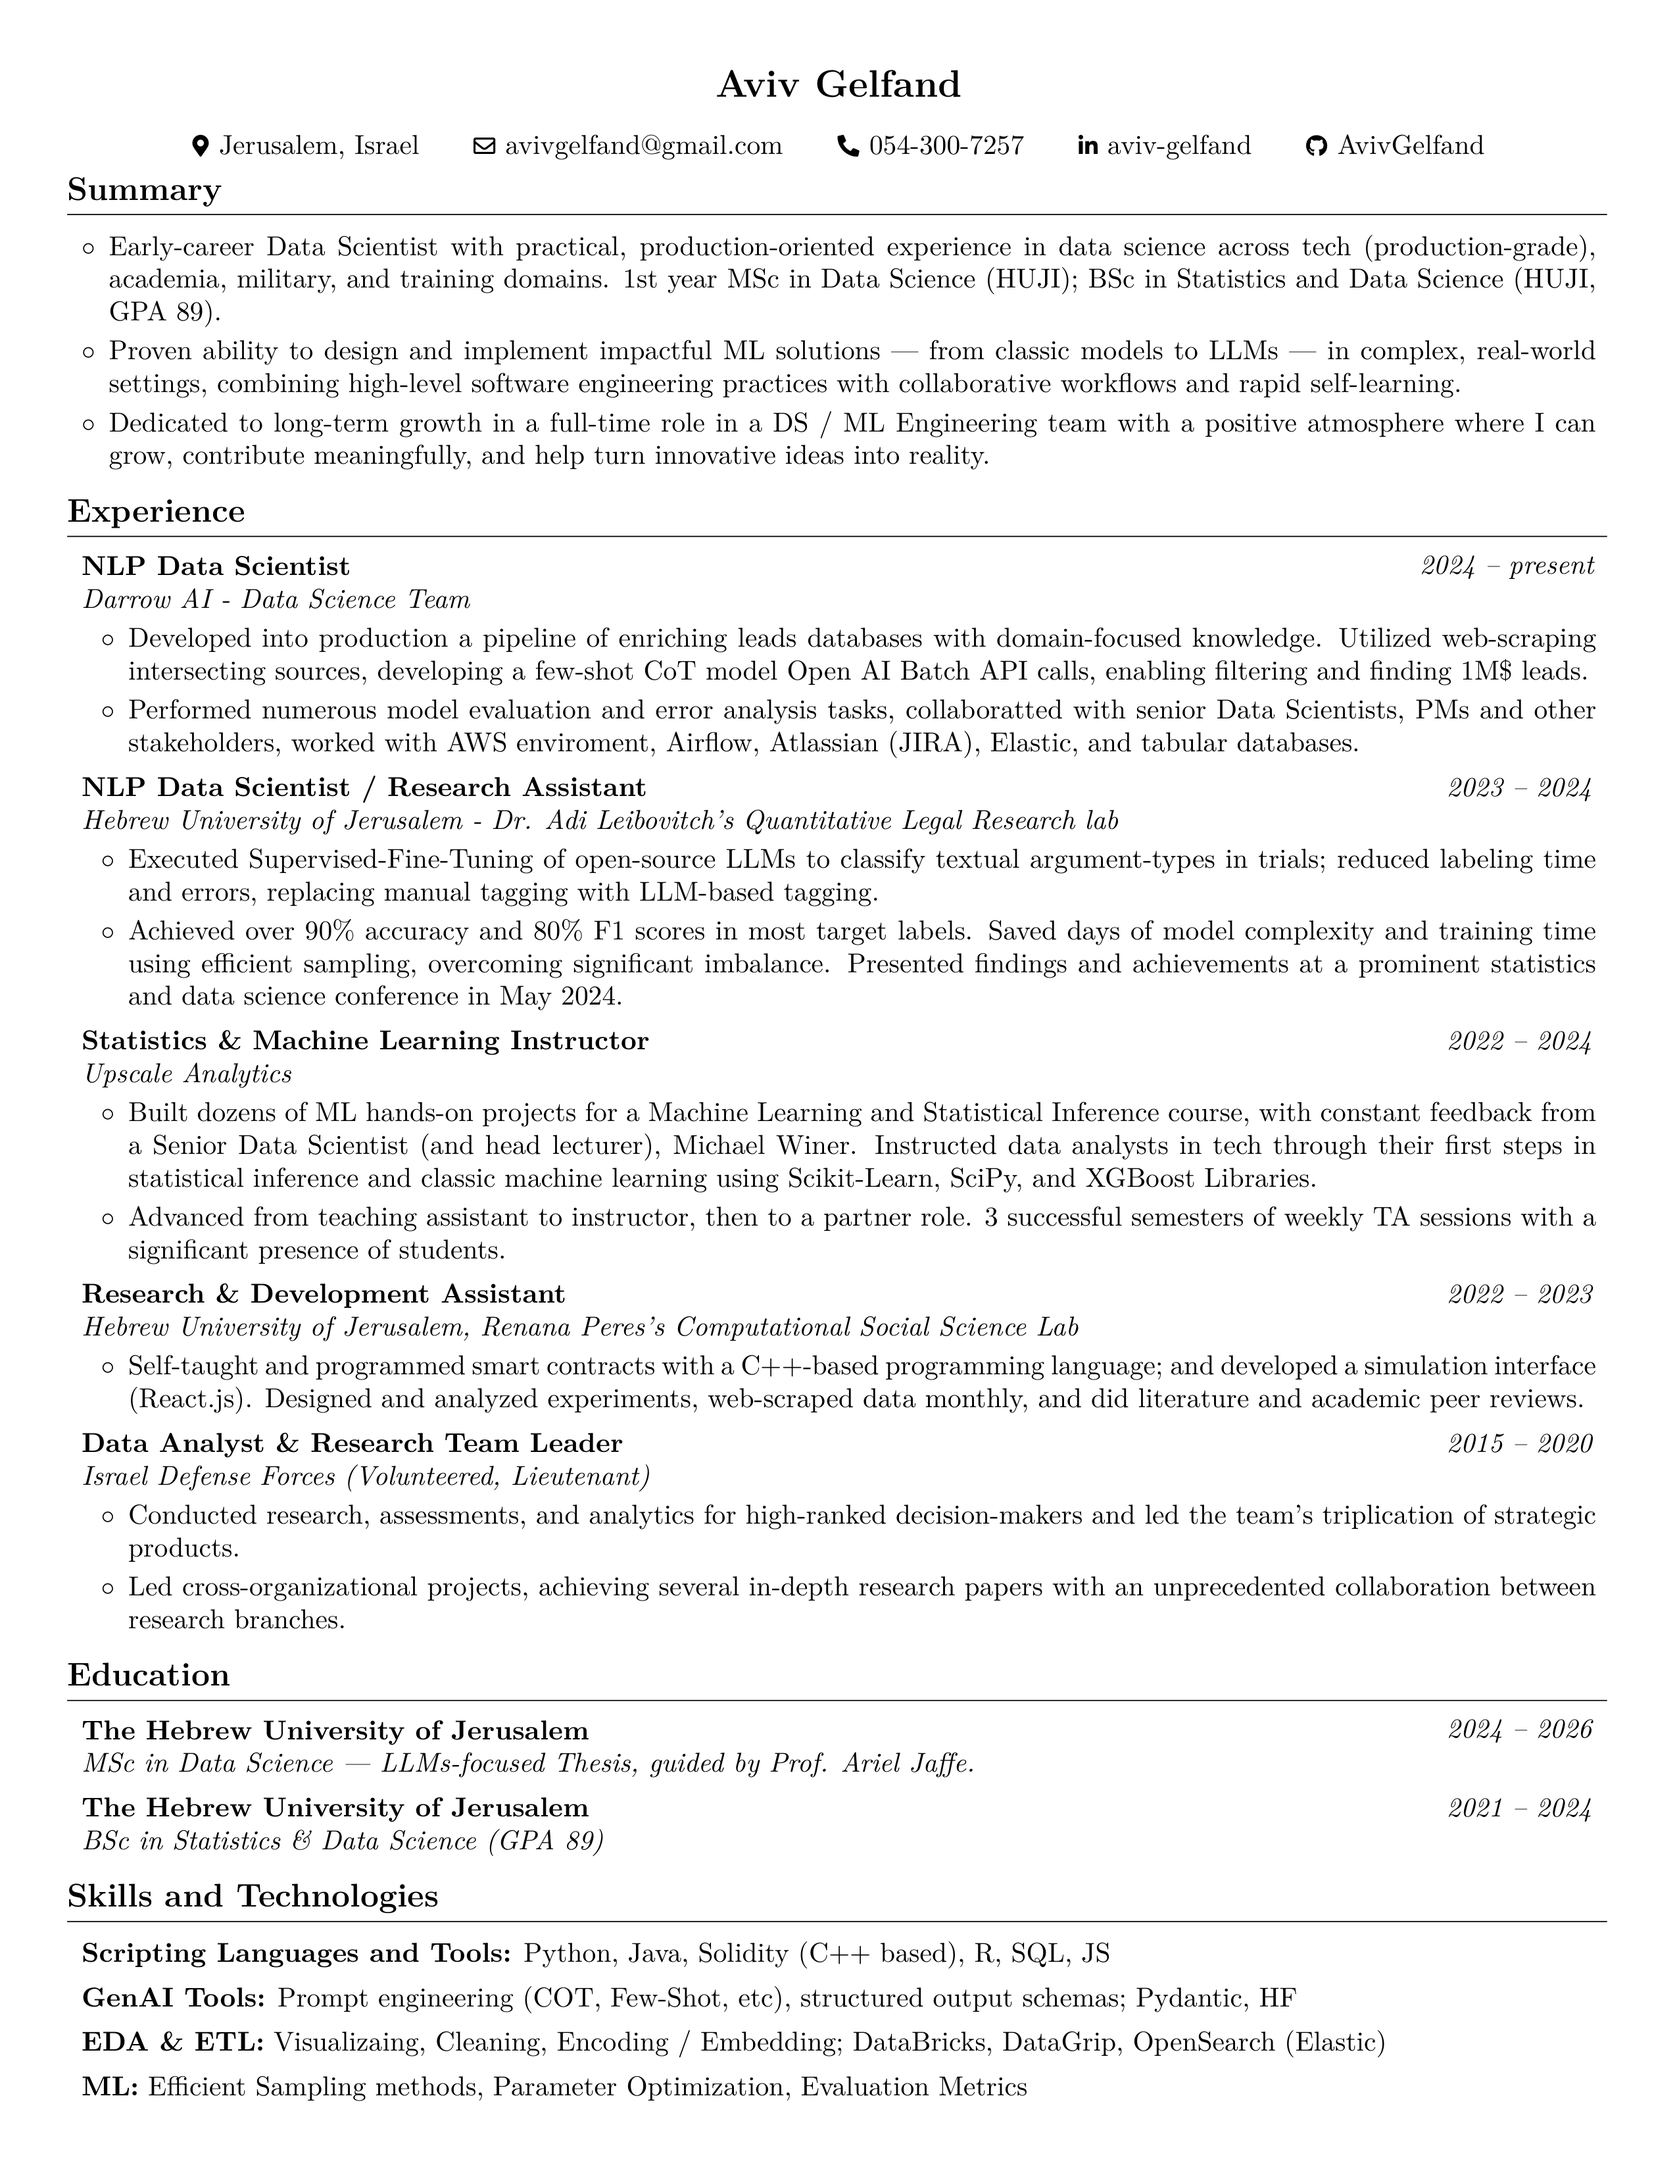
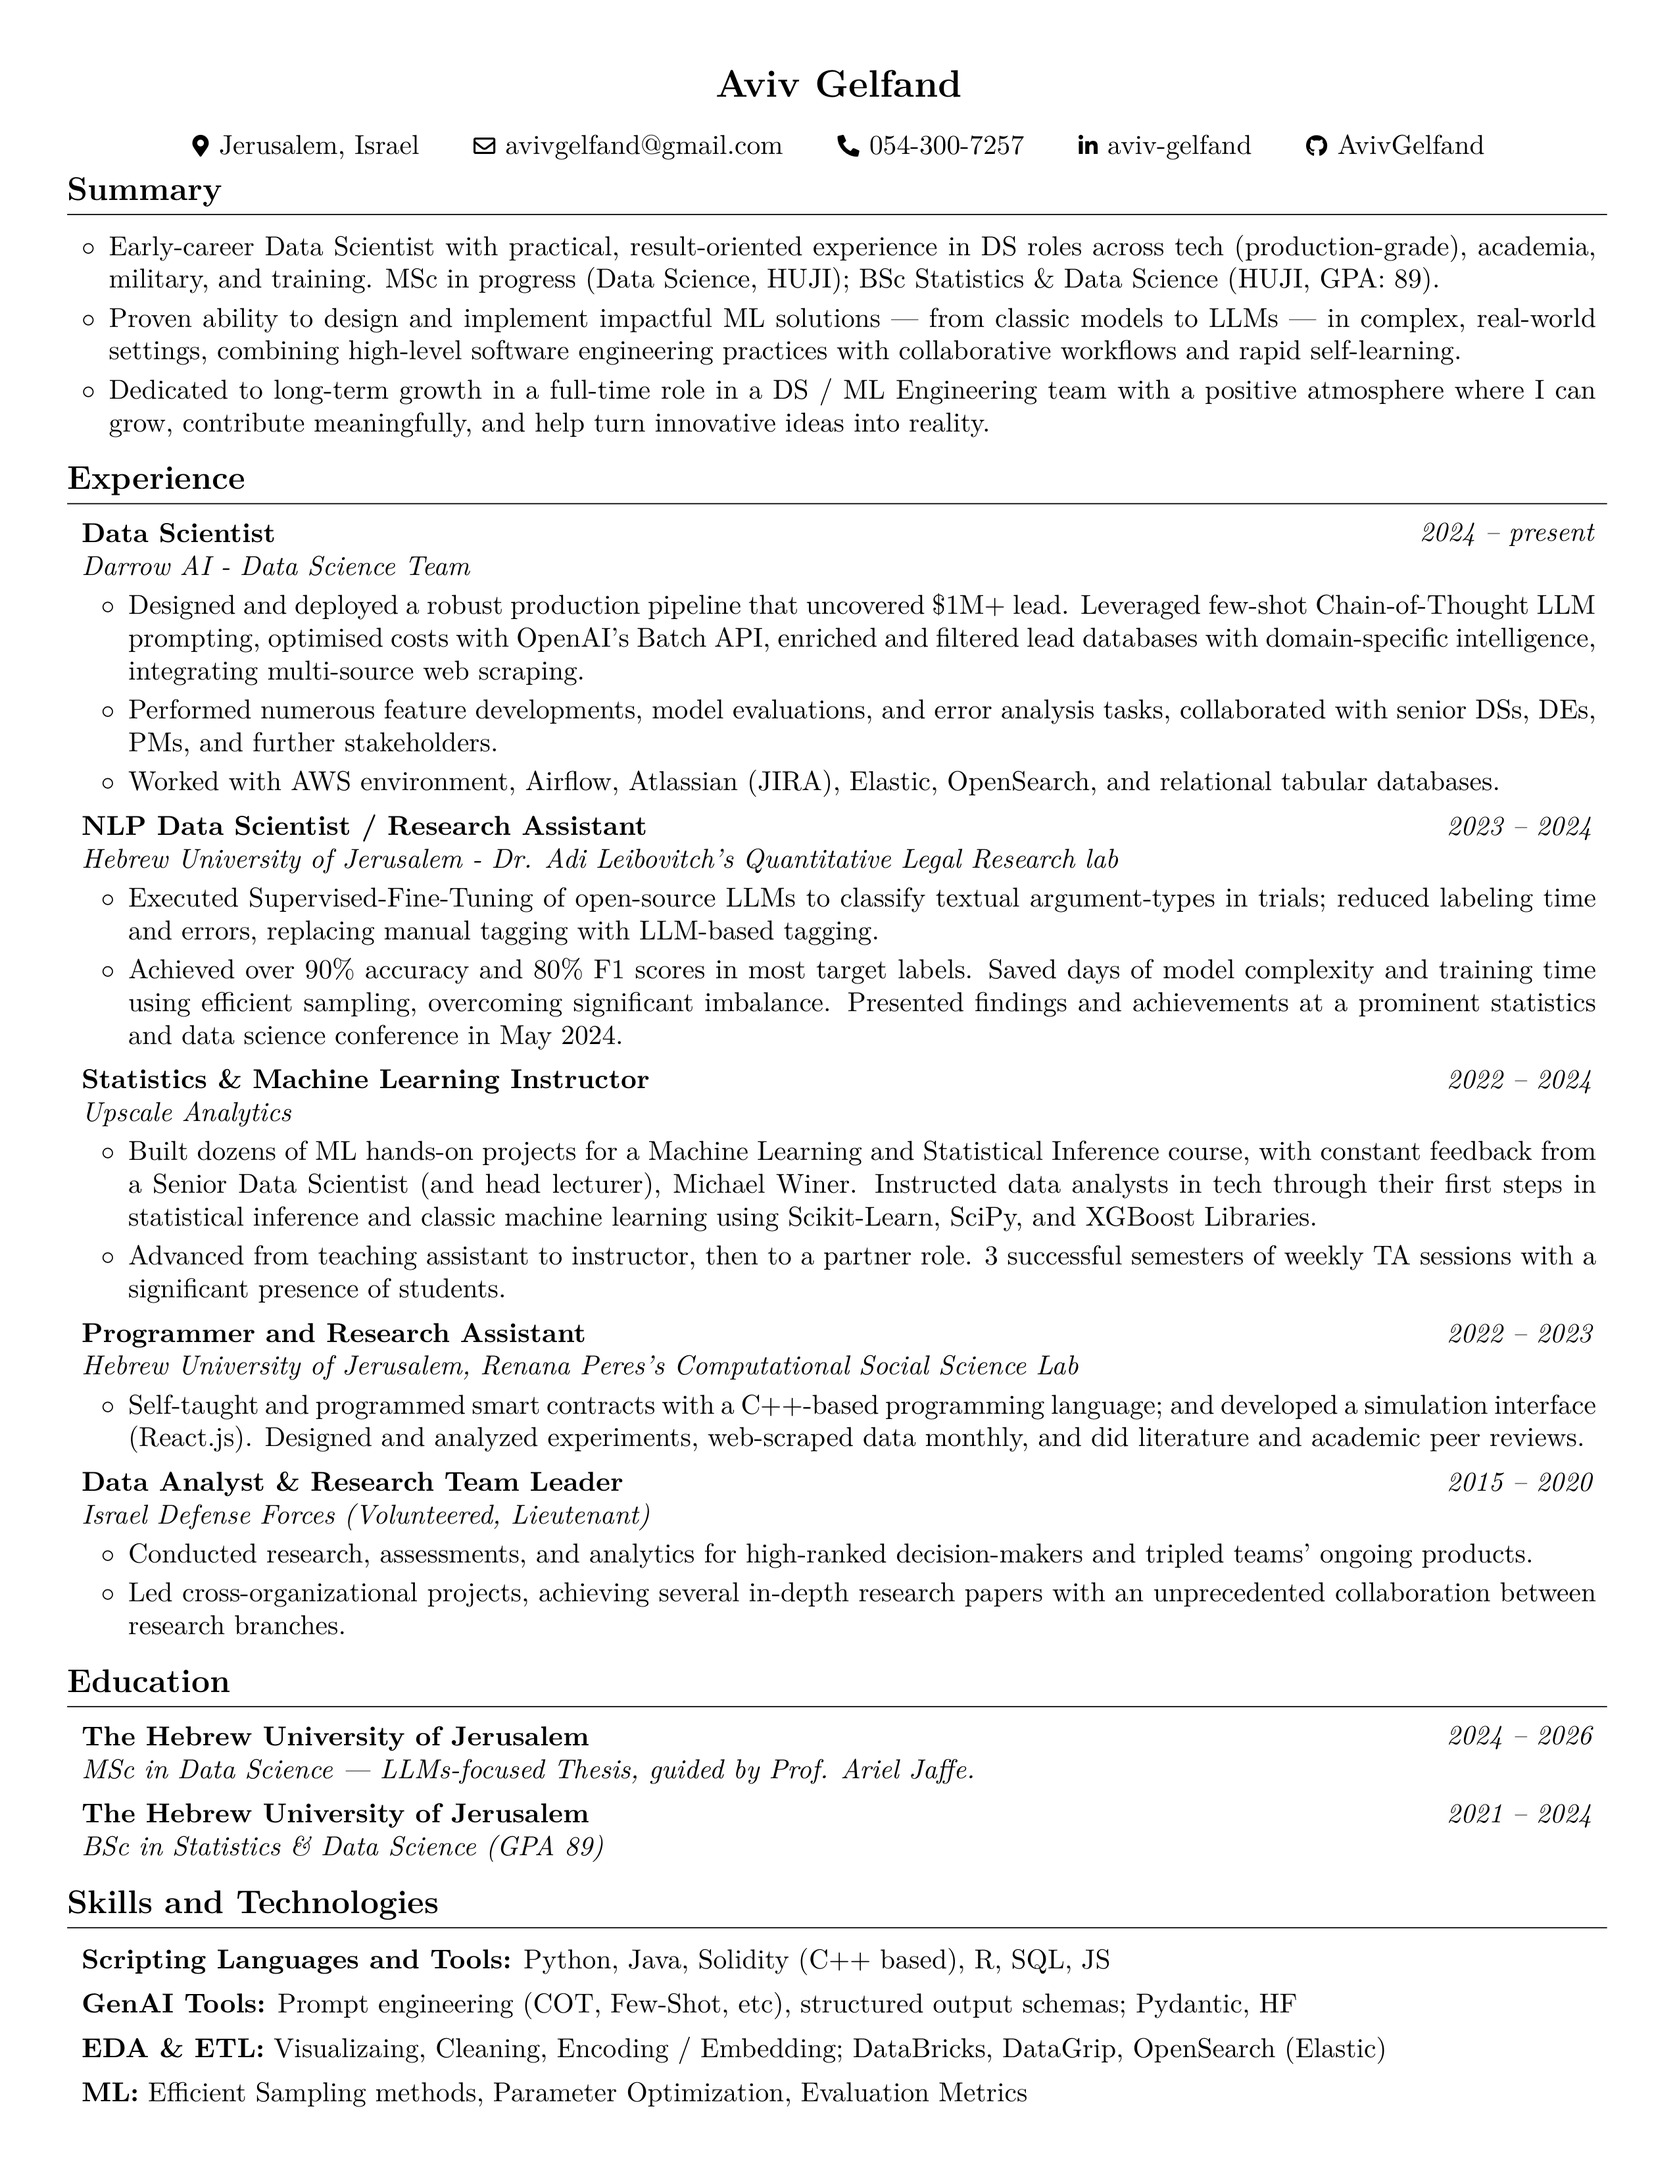
Render the latest CV

diff --git a/Aviv_Gelfand_CV.html b/Aviv_Gelfand_CV.html
@@ -50,8 +50,9 @@
         <h2>Darrow AI - Data Science Team, Data Scientist</h2>
         <ul>
         <li>2024 – present</li>
-        <li>Developed into production a pipeline of enriching leads databases with domain-focused knowledge. Utilized web-scraping intersecting sources, developing a few-shot CoT model Open AI Batch API calls, enabling filtering and finding 1M\$ leads.</li>
-        <li>Performed numerous model evaluation and error analysis tasks, collaboratted with senior Data Scientists, PMs and other stakeholders, worked with AWS enviroment, Airflow, Atlassian (JIRA), Elastic, and tabular databases.</li>
+        <li>Designed and deployed a robust production pipeline that uncovered \$1M+ lead. Leveraged few-shot Chain-of-Thought LLM prompting, optimised costs with OpenAI’s Batch API, enriched and filtered lead databases with domain-specific intelligence, integrating multi-source web scraping.</li>
+        <li>Performed numerous feature developments, model evaluations, and error analysis tasks, collaborated with senior DSs, DEs, PMs, and further stakeholders.</li>
+        <li>Worked with AWS environment, Airflow, Atlassian (JIRA), Elastic, OpenSearch, and relational tabular databases.</li>
         </ul>
         <h2>Hebrew University of Jerusalem - Dr. Adi Leibovitch's Quantitative Legal Research lab, NLP Data Scientist / Research Assistant</h2>
         <ul>

diff --git a/Aviv_Gelfand_CV.tex b/Aviv_Gelfand_CV.tex
@@ -208,8 +208,9 @@
         \vspace{0.08 cm}
         \begin{onecolentry}
             \begin{highlights}
-                \item Developed into production a pipeline of enriching leads databases with domain-focused knowledge. Utilized web-scraping intersecting sources, developing a few-shot CoT model Open AI Batch API calls, enabling filtering and finding 1M\$ leads.
-                \item Performed numerous model evaluation and error analysis tasks, collaboratted with senior Data Scientists, PMs and other stakeholders, worked with AWS enviroment, Airflow, Atlassian (JIRA), Elastic, and tabular databases.
+                \item Designed and deployed a robust production pipeline that uncovered \$1M+ lead. Leveraged few-shot Chain-of-Thought LLM prompting, optimised costs with OpenAI’s Batch API, enriched and filtered lead databases with domain-specific intelligence, integrating multi-source web scraping.
+                \item Performed numerous feature developments, model evaluations, and error analysis tasks, collaborated with senior DSs, DEs, PMs, and further stakeholders.
+                \item Worked with AWS environment, Airflow, Atlassian (JIRA), Elastic, OpenSearch, and relational tabular databases.
             \end{highlights}
         \end{onecolentry}
 

diff --git a/README.md b/README.md
@@ -19,8 +19,9 @@
 ## Darrow AI - Data Science Team, Data Scientist
 
 - 2024 – present
-- Developed into production a pipeline of enriching leads databases with domain-focused knowledge. Utilized web-scraping intersecting sources, developing a few-shot CoT model Open AI Batch API calls, enabling filtering and finding 1M\$ leads.
-- Performed numerous model evaluation and error analysis tasks, collaboratted with senior Data Scientists, PMs and other stakeholders, worked with AWS enviroment, Airflow, Atlassian (JIRA), Elastic, and tabular databases.
+- Designed and deployed a robust production pipeline that uncovered \$1M+ lead. Leveraged few-shot Chain-of-Thought LLM prompting, optimised costs with OpenAI’s Batch API, enriched and filtered lead databases with domain-specific intelligence, integrating multi-source web scraping.
+- Performed numerous feature developments, model evaluations, and error analysis tasks, collaborated with senior DSs, DEs, PMs, and further stakeholders.
+- Worked with AWS environment, Airflow, Atlassian (JIRA), Elastic, OpenSearch, and relational tabular databases.
 
 ## Hebrew University of Jerusalem - Dr. Adi Leibovitch's Quantitative Legal Research lab, NLP Data Scientist / Research Assistant
 
